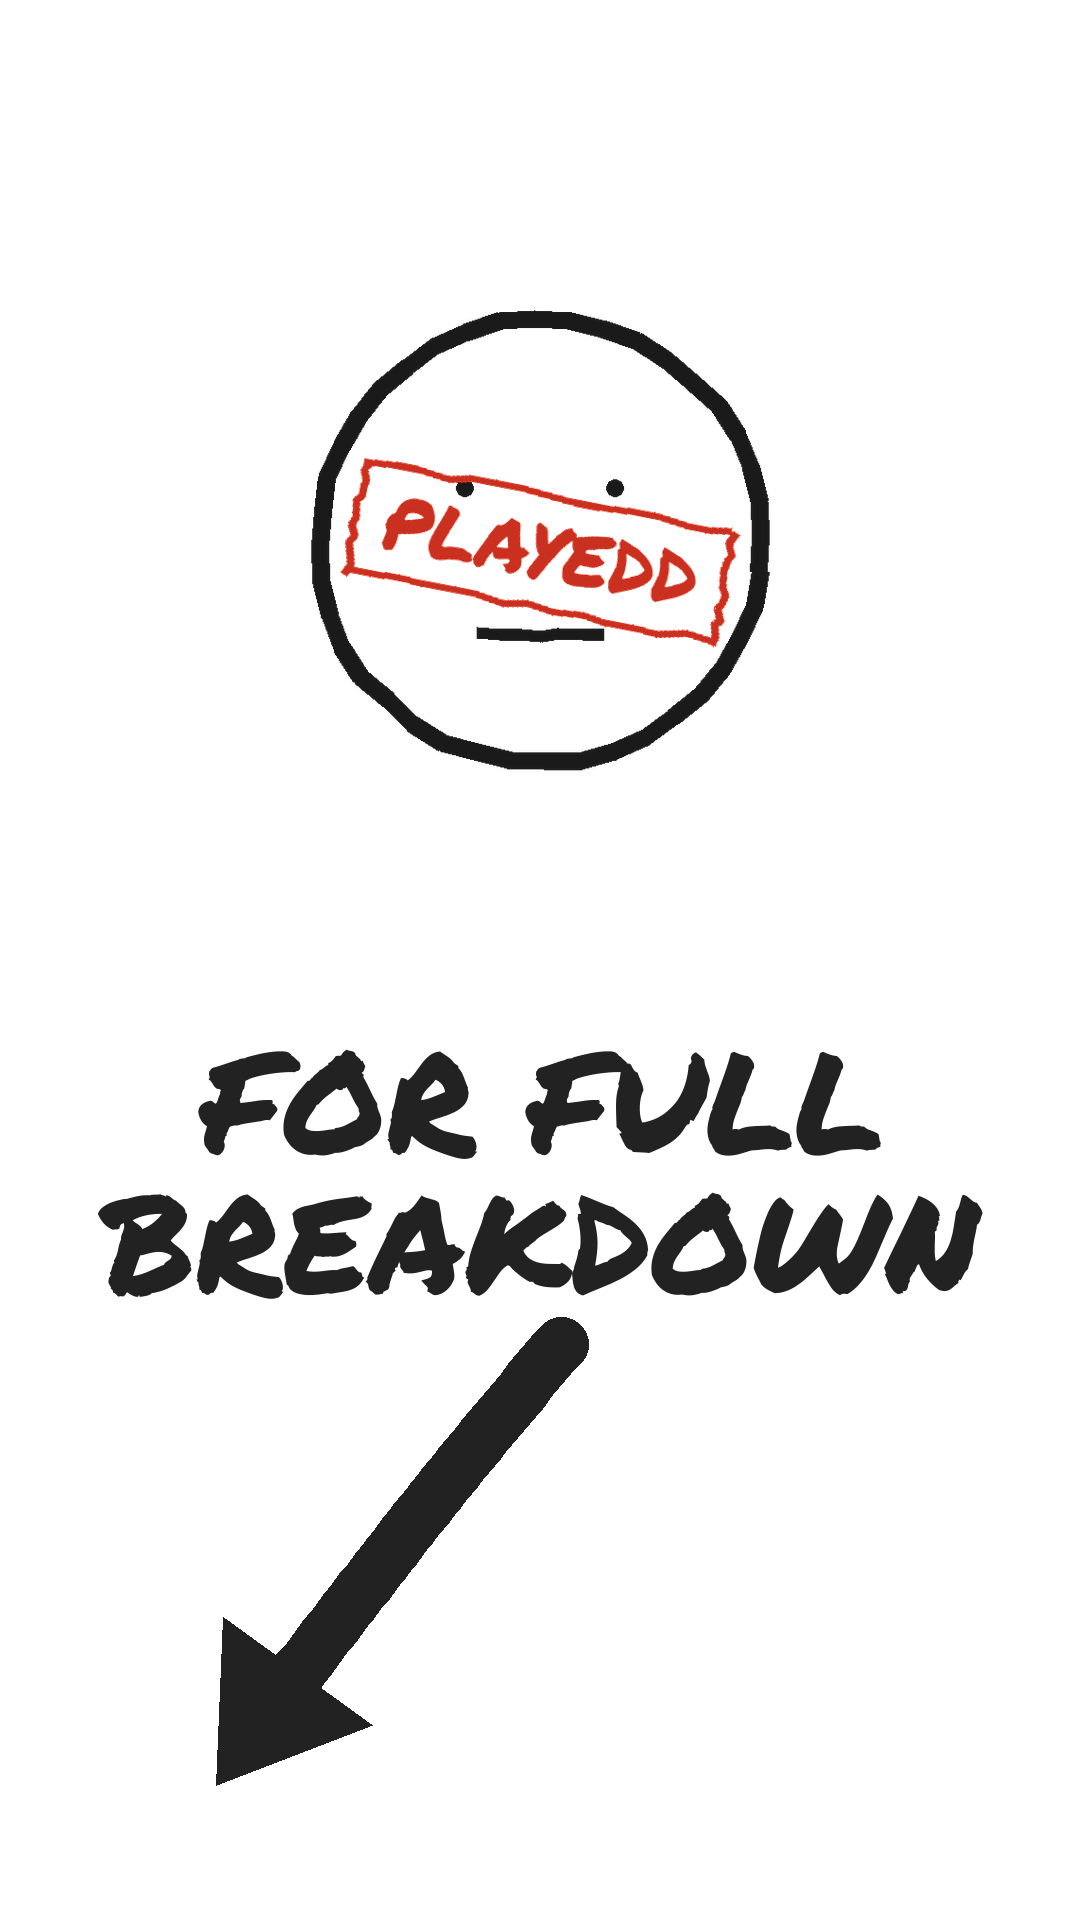
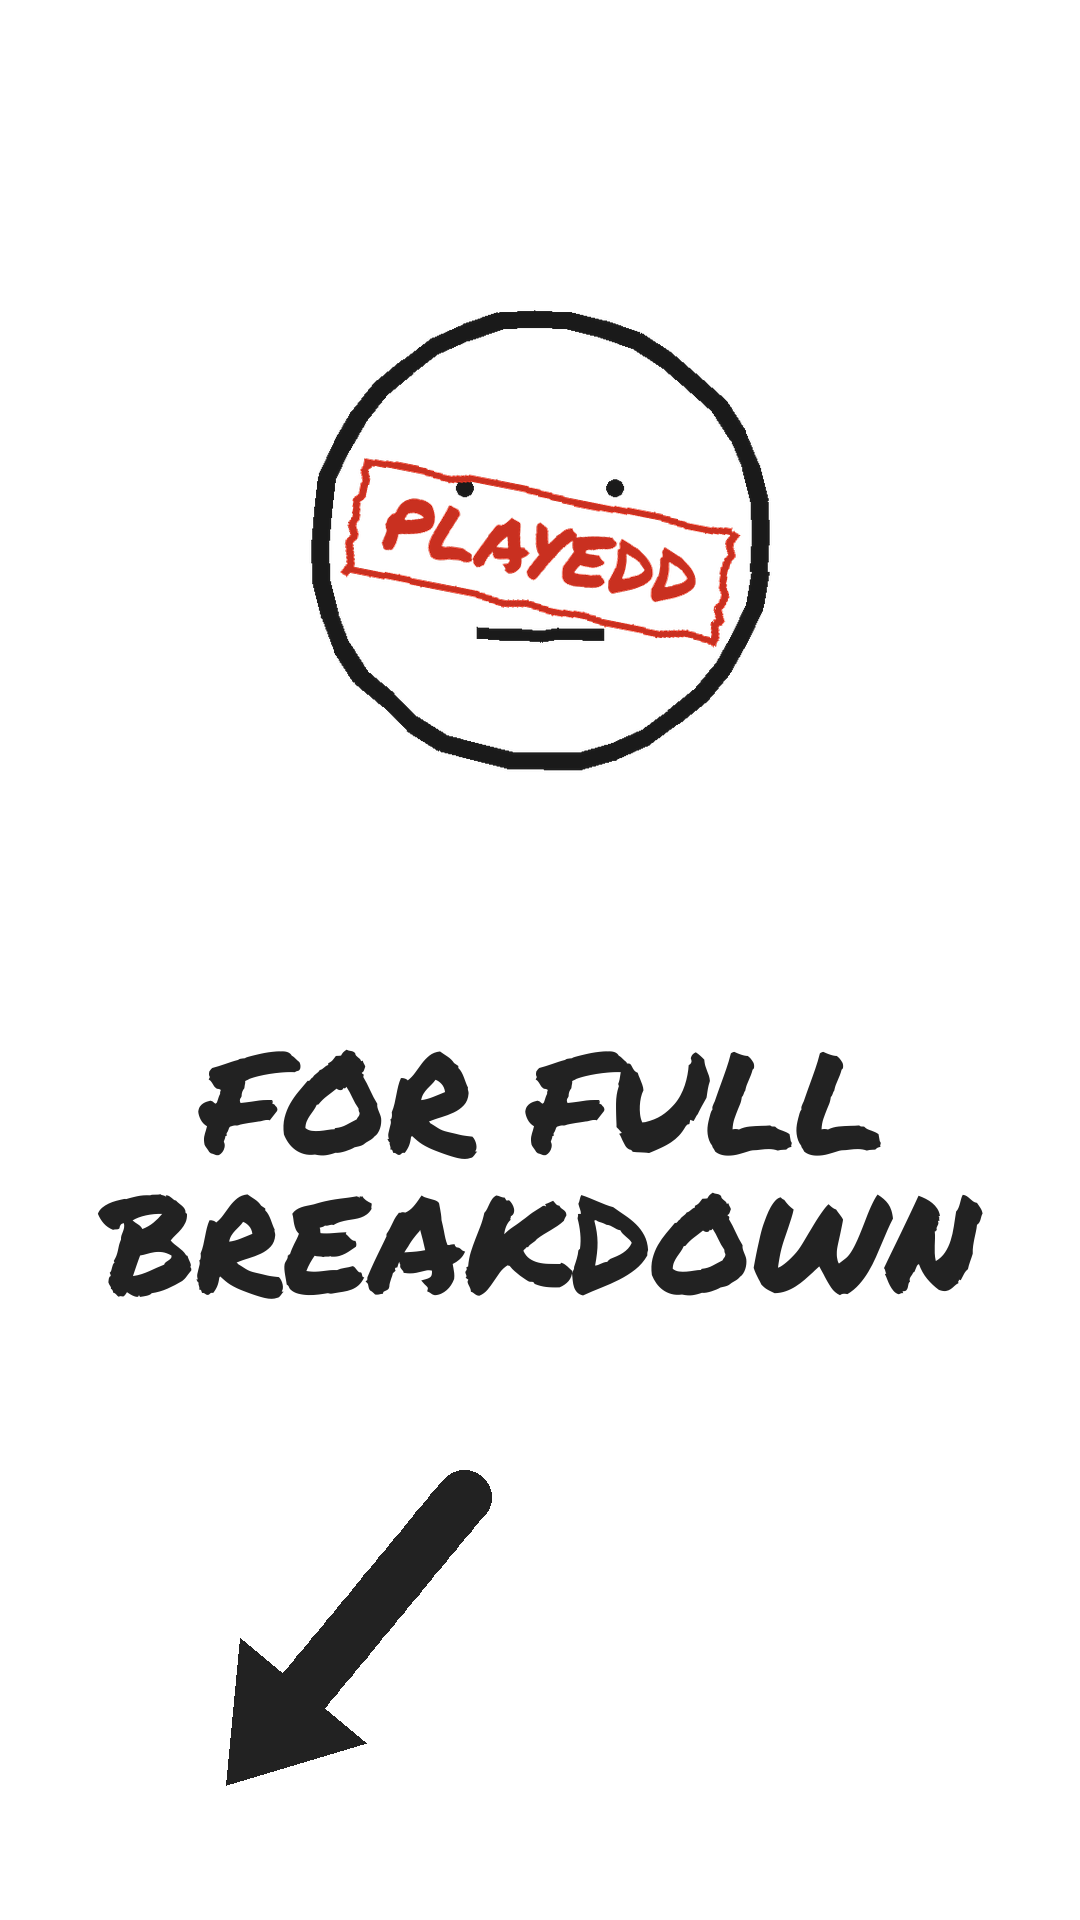
fix(shorts): shorten the CTA arrow (smaller tail + arrowhead)

Changed region(s): [[0.1833, 0.6875, 0.55, 0.9375]]

diff --git a/pipeline/build_short.py b/pipeline/build_short.py
@@ -124,9 +124,9 @@ def make_cta_card(bg_hex: str, out_png: Path, challenge: str = "", heading: str 
     # thick CURVED arrow with a CLEAN sharp tip, aimed at the video-link row ~15% in from the
     # left edge with a gentle (not steep) angle. The rounded stroke stops at the arrowhead's neck
     # so the round joints never blunt the tip.
-    p0 = (int(W * 0.52), int(H * 0.70))   # tail, under the heading
-    pc = (int(W * 0.34), int(H * 0.82))   # control bows the curve DOWN toward the bottom-left
-    p2 = (int(W * 0.20), int(H * 0.93))   # head tip: low near the bottom, ~20% from the left edge
+    p0 = (int(W * 0.43), int(H * 0.78))   # tail (short arrow), under the heading
+    pc = (int(W * 0.32), int(H * 0.855))  # control bows the curve DOWN toward the bottom-left
+    p2 = (int(W * 0.21), int(H * 0.93))   # head tip: low near the bottom, ~20% from the left edge
     width = 54
     N = 64
     pts = [(
@@ -136,7 +136,7 @@ def make_cta_card(bg_hex: str, out_png: Path, challenge: str = "", heading: str 
     ax, ay = pts[-1][0] - pts[-7][0], pts[-1][1] - pts[-7][1]   # smooth tip tangent (avoids a kink)
     al = math.hypot(ax, ay) or 1.0
     ux, uy = ax / al, ay / al
-    head_len, half_w = 140, 92
+    head_len, half_w = 122, 82
     neck = (p2[0] - ux * head_len, p2[1] - uy * head_len)
     stroke = [p for p in pts if math.hypot(p[0] - p2[0], p[1] - p2[1]) > head_len] + [neck]
     d.line(stroke, fill=INK, width=width, joint="curve")